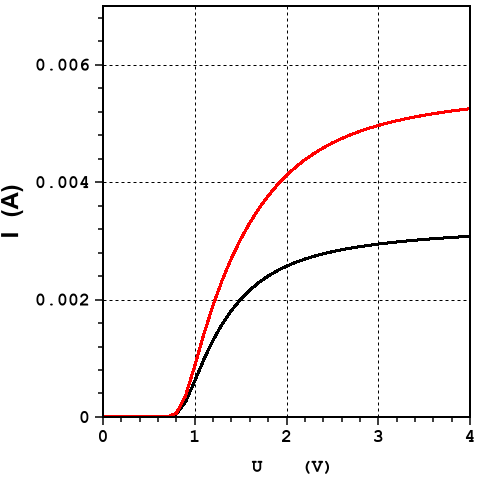
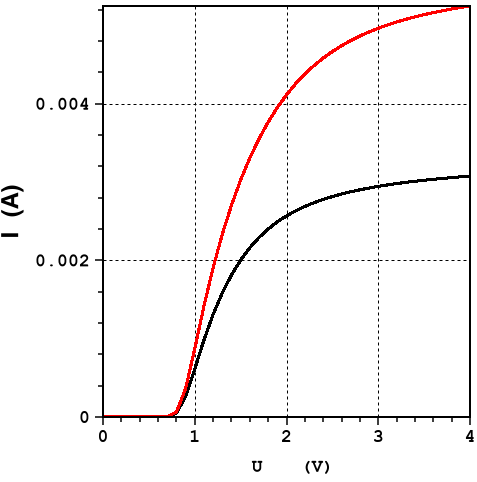
Лаба 3: оси графиков по данным, самописный решатель — последний столбец, README короче
- ВАХ и ток вдоль границы: ось Y ровно по данным, как у эталона (inspect) —
  кривые всех столбцов одной высоты.
- Порядок столбцов: эталон, ISE, DEVSIM, самописный решатель.
- README, работа 3: расчёт в ISE, решатели (сетка, узлы, метод, машина, время),
  результаты; подробности — в заметках (визуализация, время, проверка решателей).

diff --git a/notes/workstation_fx8320_titanx.md b/notes/workstation_fx8320_titanx.md
@@ -64,7 +64,27 @@
 уравновешиванием строк и столбцов. Сам Гуммель на высокой инжекции сходится медленно
 (на 2–4 В — сотни итераций без сходимости до 10⁻⁶ В); ускорение Андерсона по
 квазиуровням сокращает это до 15–40 итераций. Сетка 76 тыс. узлов, 14 точек ВАХ до 4 В —
-около 25 минут на диод (два диода параллельно на одной карте).
+около 11 минут на диод (два диода параллельно на одной карте). На одной сетке с DEVSIM
+(10 тыс. узлов) ток совпадает до пятого знака: 5.24944 и 5.24945 мА у диода A при 4 В,
+хотя методы независимы (у DEVSIM — связанный Ньютон).
+
+## Время расчёта
+
+На точку ВАХ, по 2–4 прогона параллельно на машине; низкие напряжения — в double.
+
+| решатель | сетка, узлов | на точку |
+|---|---|---|
+| DEVSIM, CPU | эталона, 1820 | ≈1.5 с |
+| DEVSIM, CPU | первая ISE, 5751 | ≈8 с; с float128 ниже 0.7 В — 80–100 с |
+| DEVSIM, CPU | тензорная, 10 тыс. | 18–25 с, 14 мин на ВАХ |
+| DEVSIM, CPU, Pardiso | тензорная, 151 тыс. | 20–30 мин (≈4 мин на итерацию Ньютона), не досчитано |
+| самописный, GPU | тензорная, 10 тыс. | 0.3–5.5 с, 151 с на ВАХ |
+| самописный, GPU | тензорная, 76 тыс. | 17–90 с, 11 мин на ВАХ из 14 точек |
+| самописный, CPU (SuperLU) | тензорная, 10 тыс. | ≈30 с — в 30–100 раз медленнее GPU |
+
+Итераций Гуммеля на точку: 3–5 до 0.7 В, 6–16 на 0.8–1.5 В, 19–36 на 2–4 В; без
+ускорения Андерсона на 2–4 В — 200 без сходимости. Одна итерация на 76 тыс. узлов —
+3.5–4 с. Для сравнения, ISE (эмуляция XP на M1, 1820 узлов) — ≈10 мин на диод.
 
 Замеры — [experiments/gpu_precision/bench_cudss.py](../experiments/gpu_precision/bench_cudss.py).
 

diff --git a/notes/ise_in_practice.md b/notes/ise_in_practice.md
@@ -70,6 +70,22 @@
   magenta`) и сеткой (`model sedge 1.0 black`).
 - Графики: засечки наружу, моноширинный жирный шрифт, экспонента вида `-5e+016`.
 
+В работе 3 ([tools/ise3d.py](../tools/ise3d.py),
+[make_figures.py](../Lab3_diode_3D/make_figures.py)):
+
+- 3D-иллюстрации — в ракурсе эталона: перспективная камера подогнана по силуэту
+  прибора на эталонной картинке (`fit_camera`). Рёбра коробки — 2 пикселя,
+  внутренняя сетка — 1.
+- Ось Y графиков, как у inspect, — ровно по данным (у эталона 0…5.3 мА и
+  37 716…488 235 А/см²), поэтому кривые всех решателей одной высоты.
+- На эталонных продольных сечениях x = 0.75 и x = 0.25 нарисован не заряд, а lg|J|
+  (проверено попиксельно), шкала — общая на весь прибор.
+- Сечения ISE строятся из трёхмерного поля по тетраэдрам сетки: в срезах
+  `dfisetools -cut` вектор тока только в плоскости среза, нормальная составляющая
+  теряется. Линия `topline` идёт в координатах среза (u = −x).
+- У самописного решателя ячейки прямоугольные, поэтому его структура нарисована
+  «кирпичами».
+
 **Определяющий фактор — место применения шкалы.** Команда picasso называется
 `device interpol <набор> linear | log | arsinh`, и ключевое слово тут
 *interpol*. Преобразуются значения в узлах, интерполяция внутри треугольника идёт
